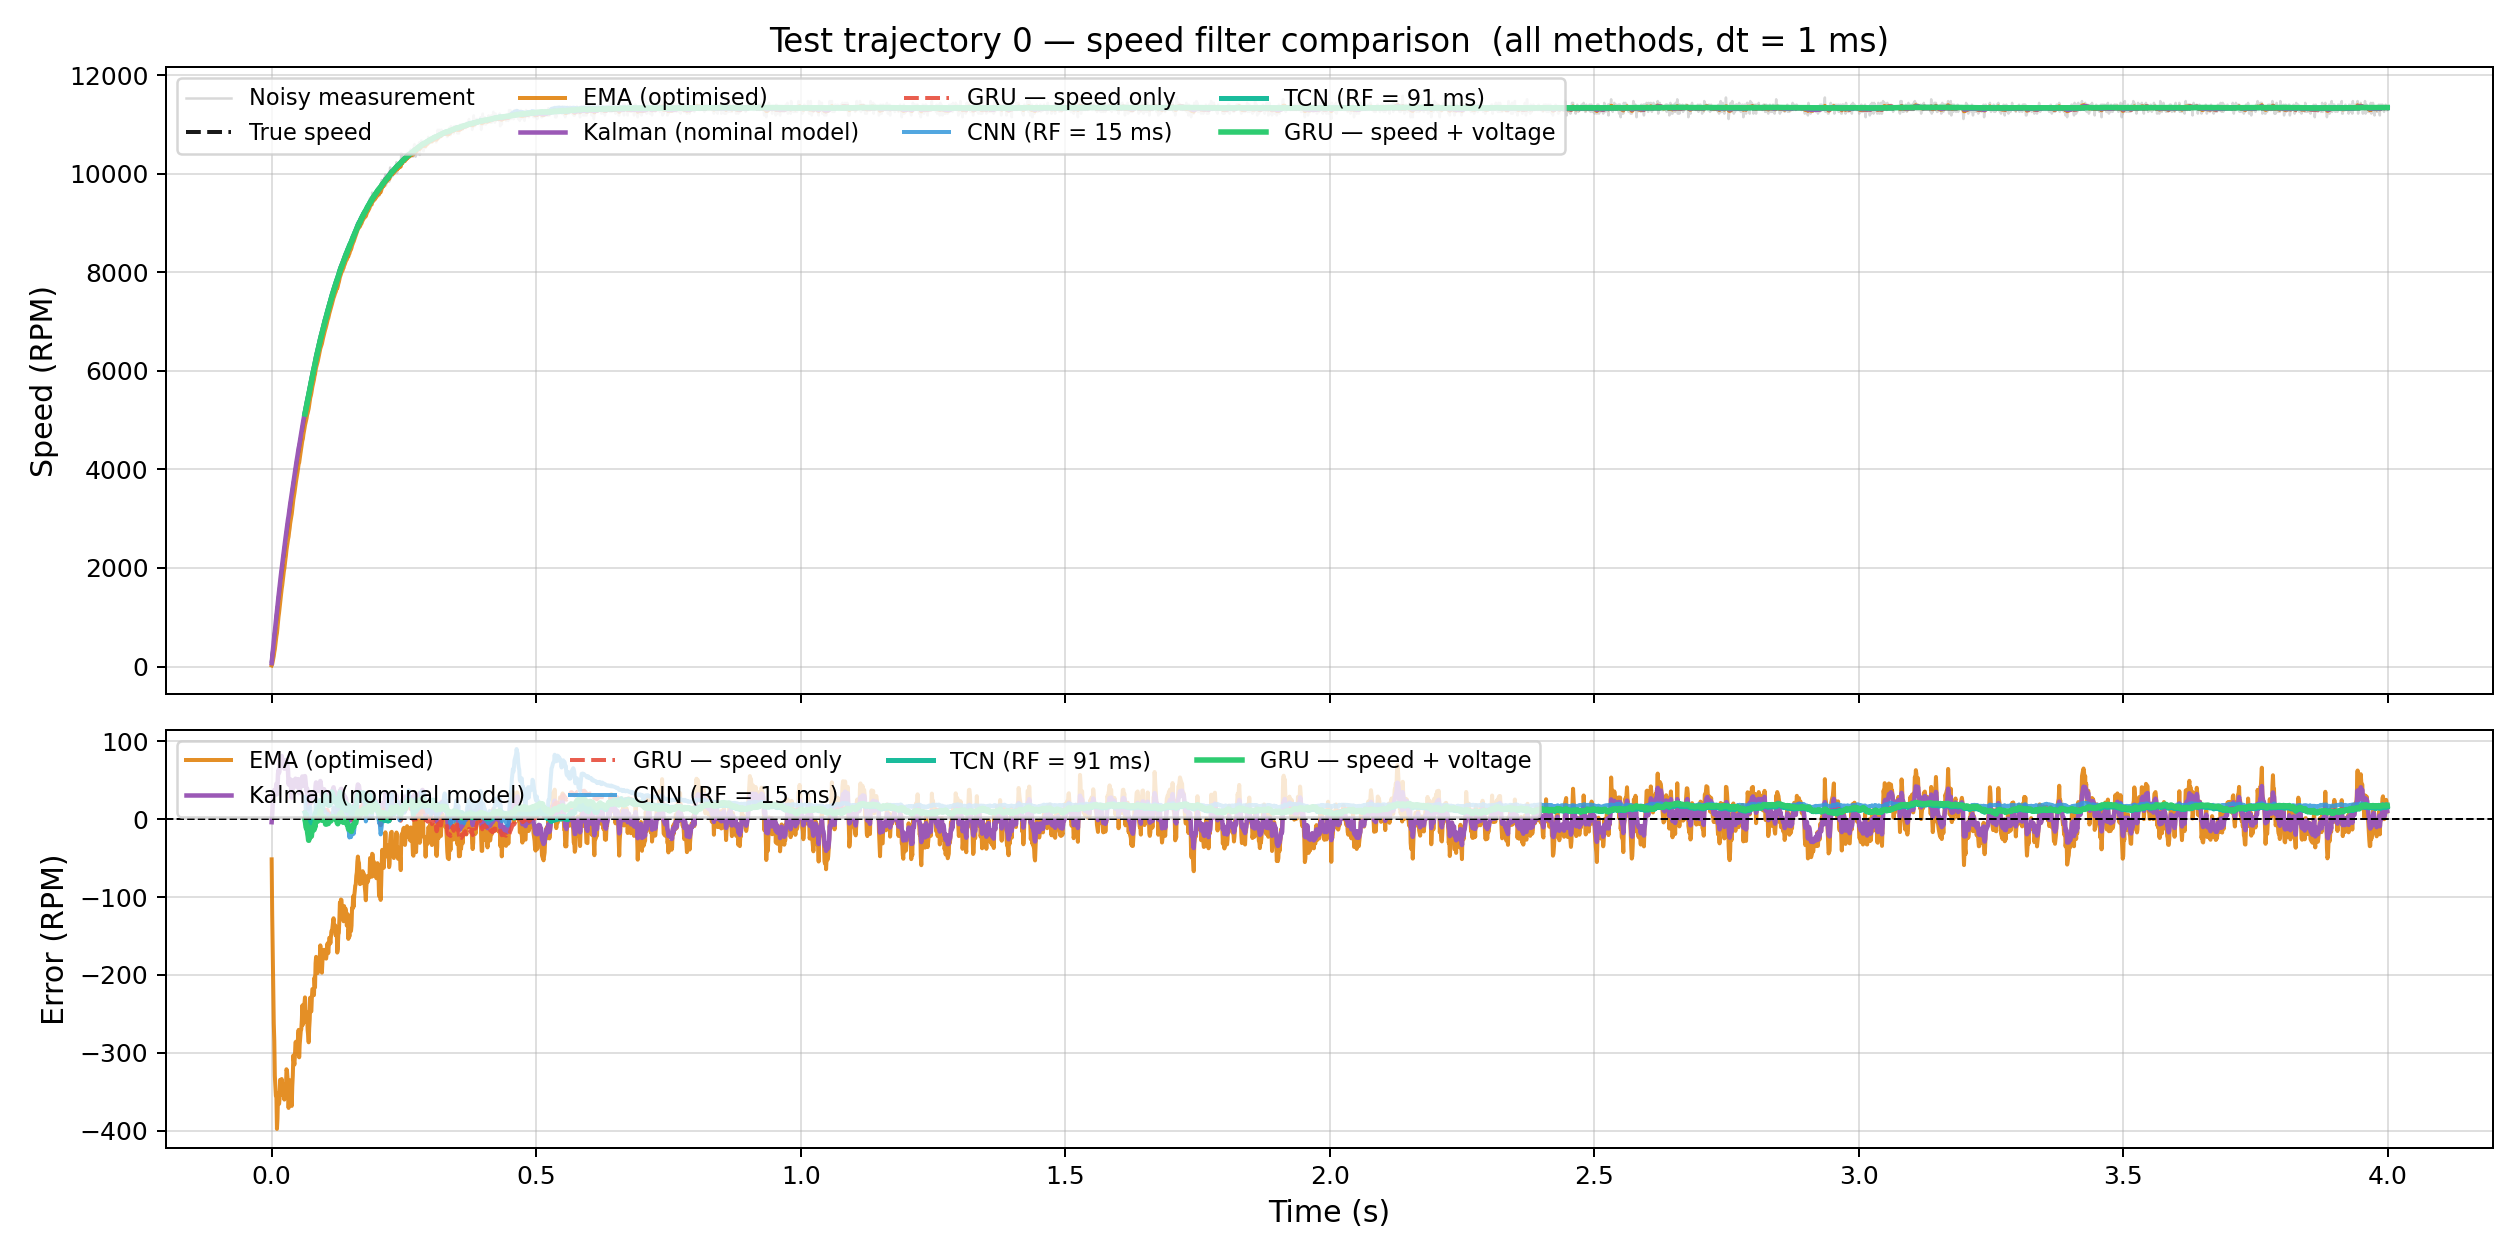
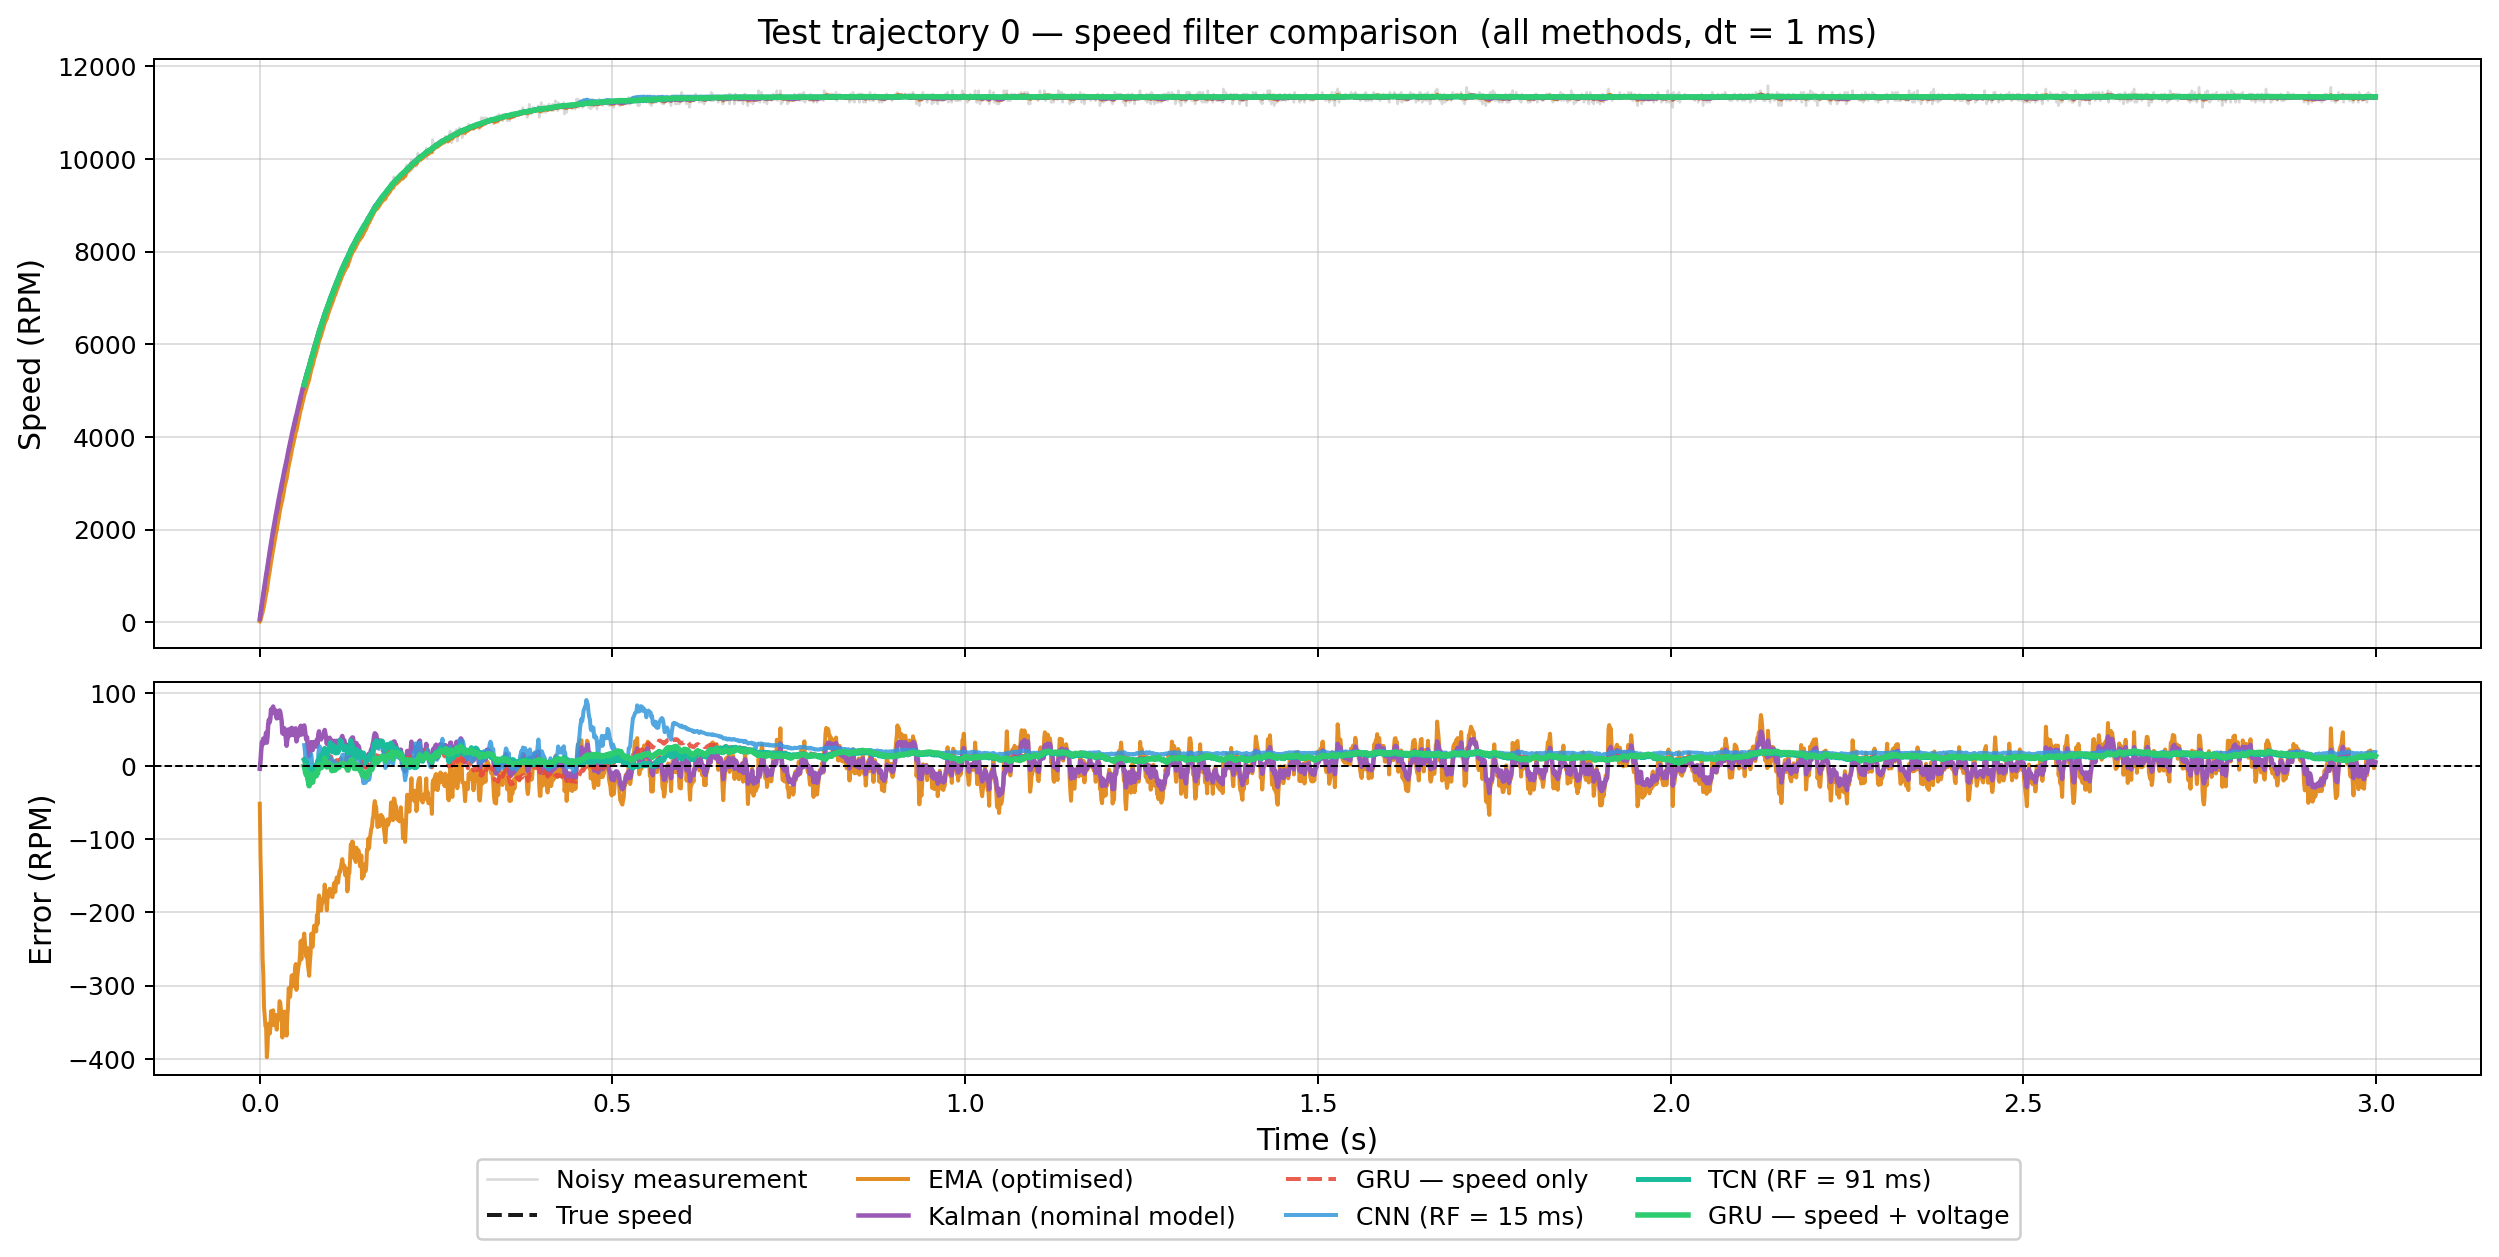
Move comparison legend below figure

diff --git a/compare.py b/compare.py
@@ -152,7 +152,6 @@ def main():
         if key in model_preds:
             _plot(ax, model_preds[key], key, t_offset=WINDOW - 1)
     ax.set_ylabel("Speed (RPM)", fontsize=12)
-    ax.legend(ncol=4, fontsize=9, loc="upper left")
     ax.grid(True, alpha=0.4)
     ax.set_title(
         f"Test trajectory {n} — speed filter comparison  "
@@ -162,28 +161,31 @@ def main():
 
     # Error panel
     ax = axes[1]
-    true_full = true  # full trajectory
+    true_full = true
     for key, pred in [("EMA", ema_pred), ("Kalman", kalman_pred)]:
         label, color, ls, lw, alpha = _STYLE[key]
         err = pred[:T_plot] - true_full[:T_plot]
-        ax.plot(t_ax[:T_plot], _rpm(err), color=color, ls=ls, lw=lw,
-                alpha=alpha, label=label)
+        ax.plot(t_ax[:T_plot], _rpm(err), color=color, ls=ls, lw=lw, alpha=alpha)
     for key in ("GRU_NOVOLT", "CNN", "TCN", "GRU"):
         if key in model_preds:
             label, color, ls, lw, alpha = _STYLE[key]
             t0 = WINDOW - 1
             err = model_preds[key][:T_plot - t0] - true_full[t0:T_plot]
-            ax.plot(t_ax[t0:T_plot], _rpm(err), color=color, ls=ls, lw=lw,
-                    alpha=alpha, label=label)
+            ax.plot(t_ax[t0:T_plot], _rpm(err), color=color, ls=ls, lw=lw, alpha=alpha)
     ax.axhline(0, color="k", lw=0.8, ls="--")
     ax.set_ylabel("Error (RPM)", fontsize=12)
     ax.set_xlabel("Time (s)", fontsize=12)
-    ax.legend(ncol=4, fontsize=9, loc="upper left")
     ax.grid(True, alpha=0.4)
 
+    # Single legend below both panels
+    handles, labels = axes[0].get_legend_handles_labels()
+    fig.legend(handles, labels, loc="lower center", ncol=4, fontsize=10,
+               bbox_to_anchor=(0.5, 0.0), framealpha=0.95)
     plt.tight_layout()
+    plt.subplots_adjust(bottom=0.14)
+
     out = Path(args.out)
-    plt.savefig(out, dpi=180)
+    plt.savefig(out, dpi=180, bbox_inches="tight")
     print(f"\nSaved → {out}")
     plt.show()
 